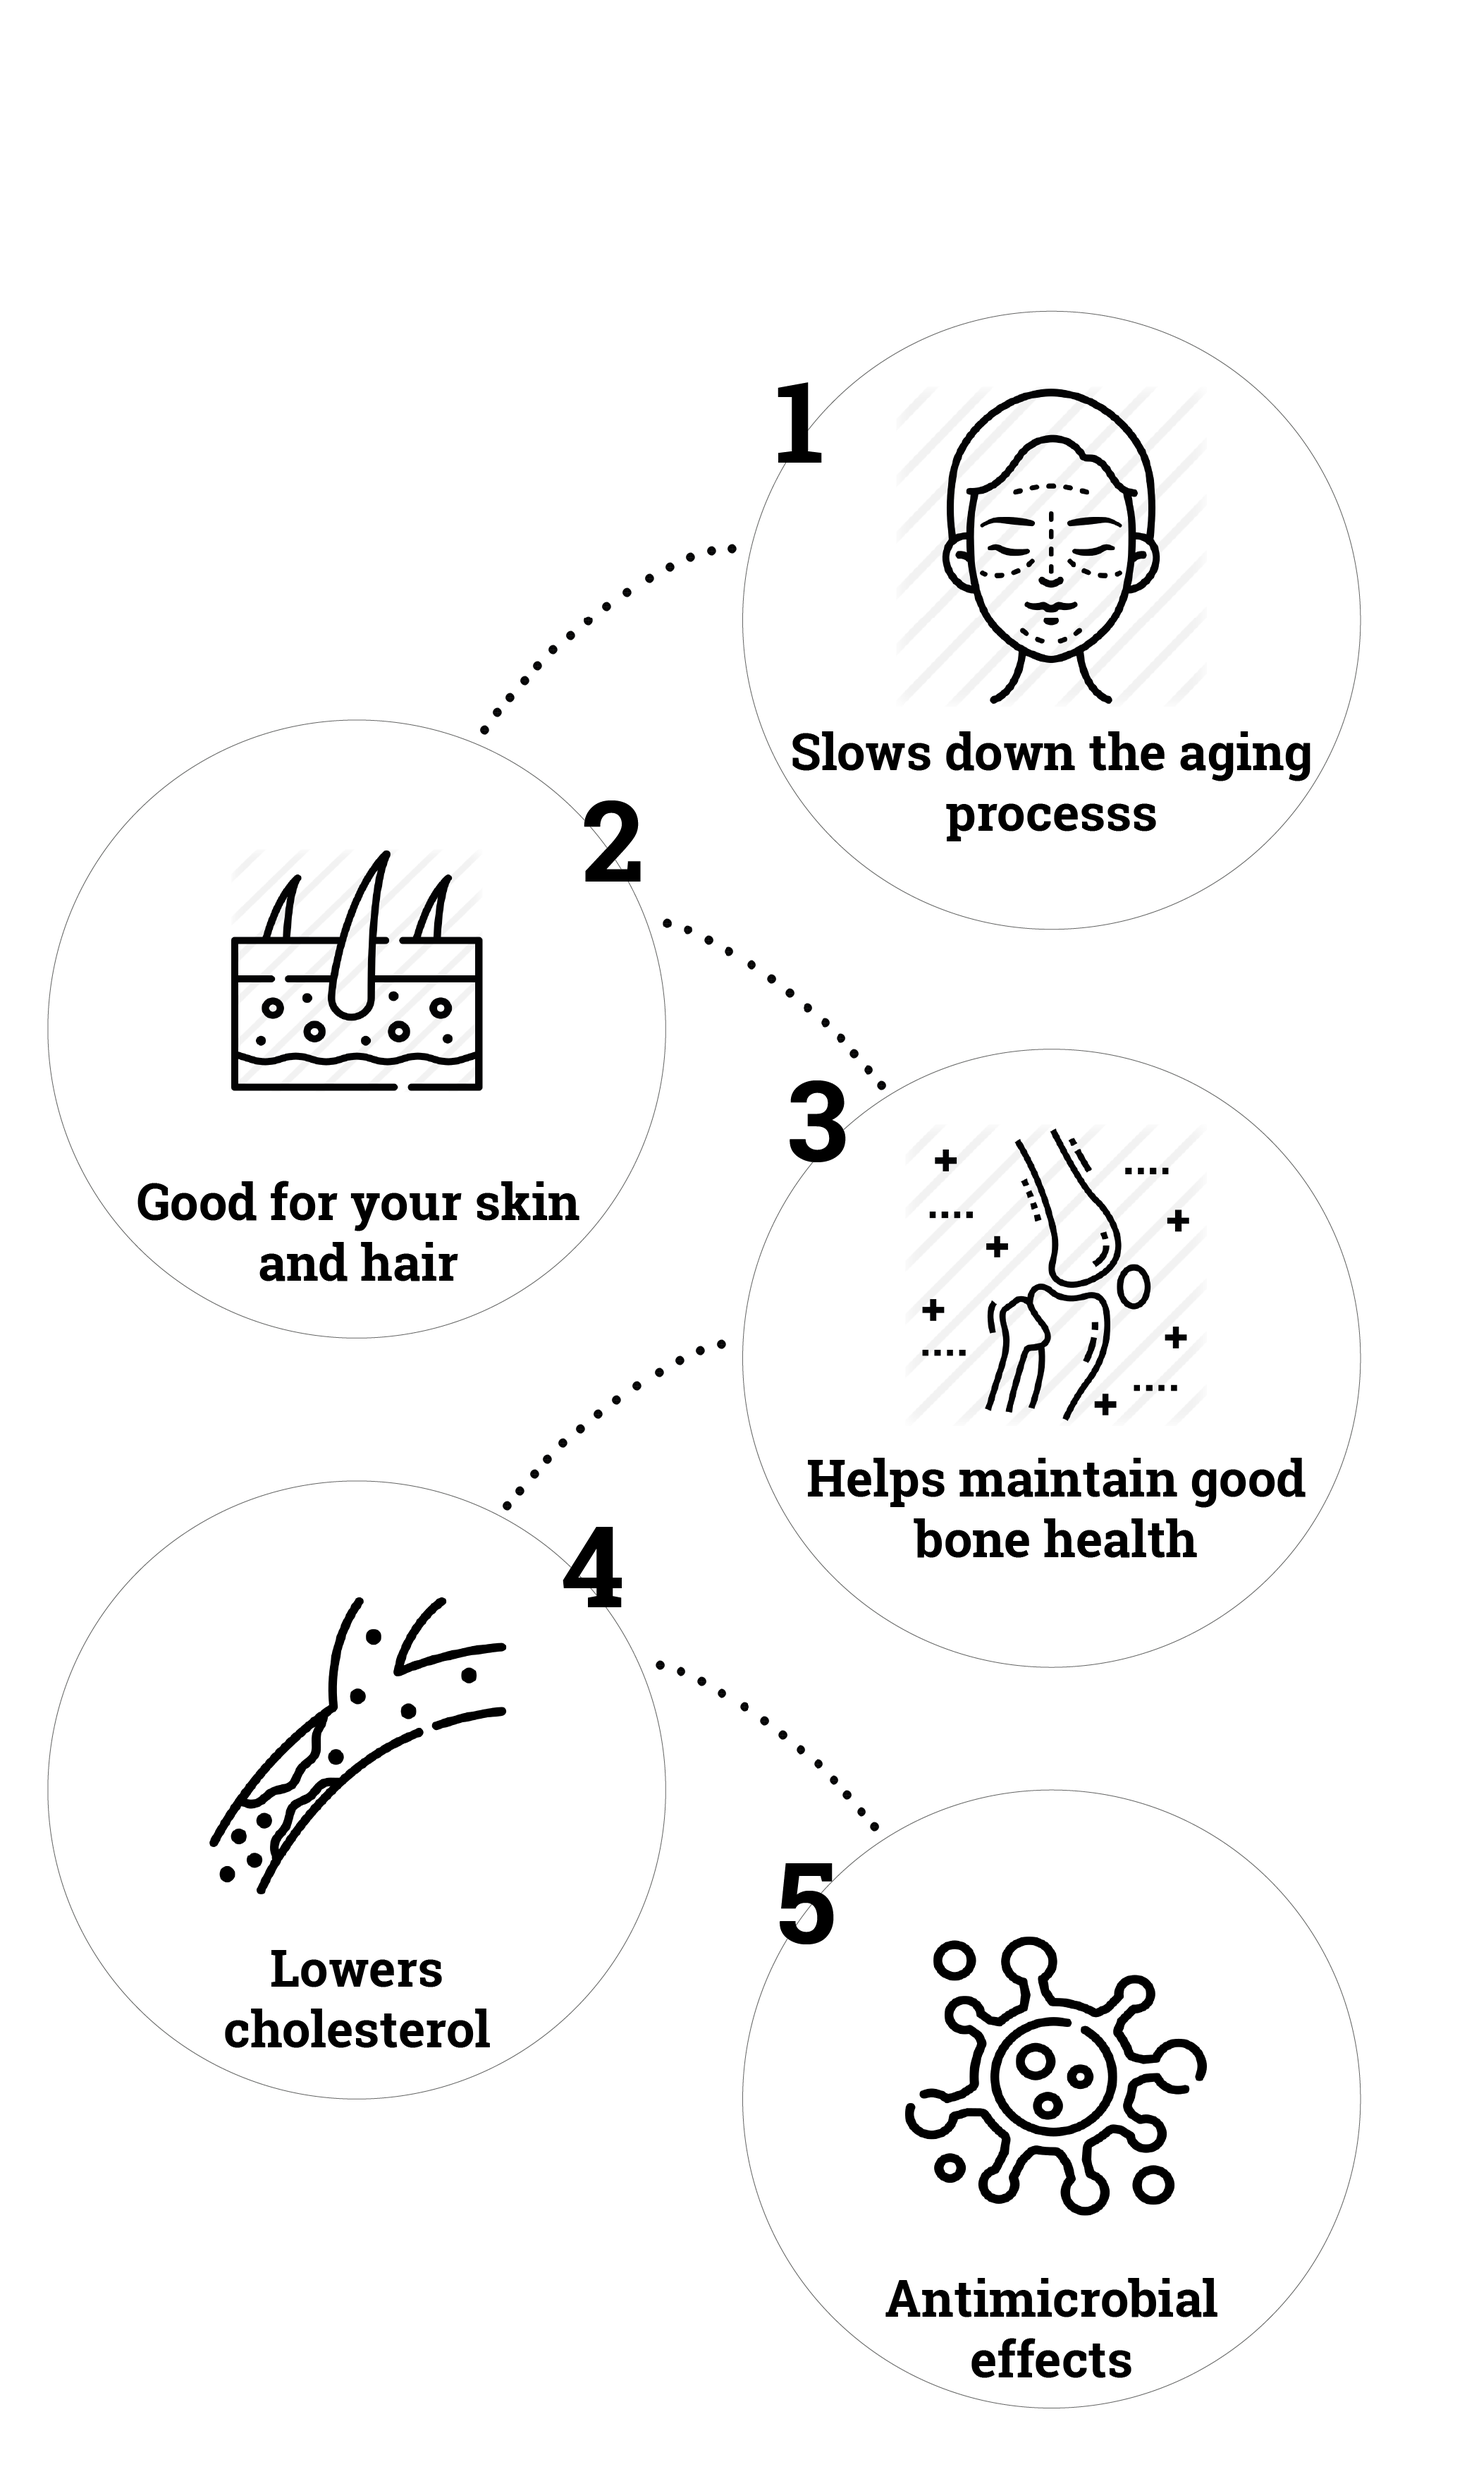
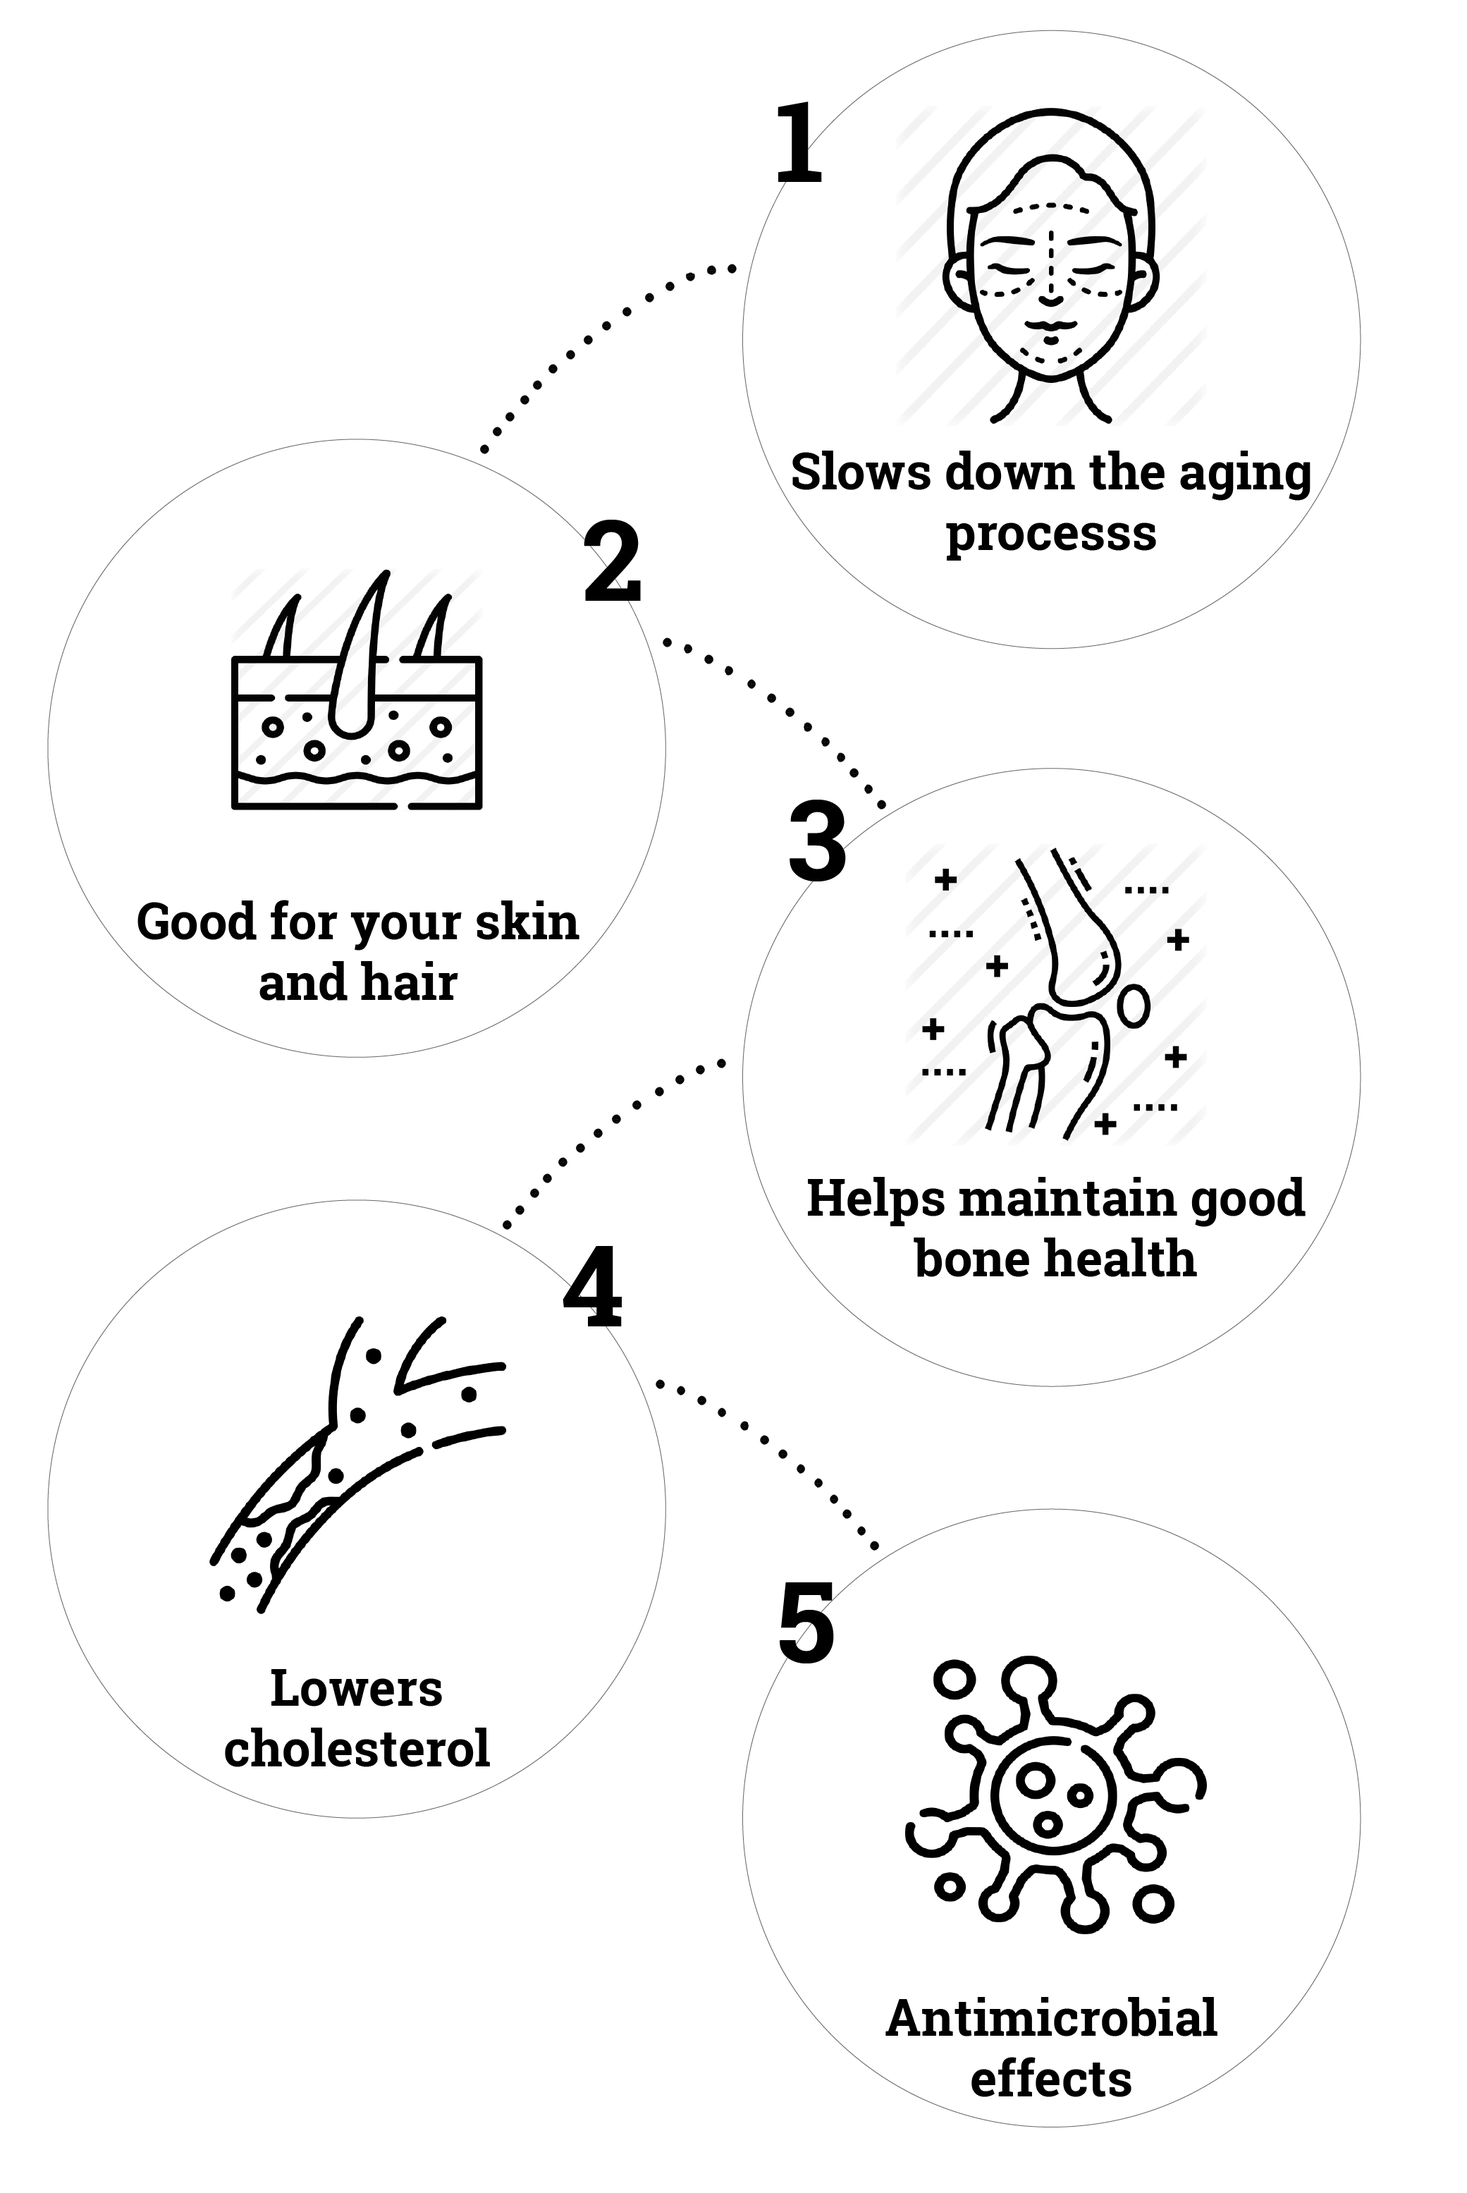
f

diff --git a/index.html b/index.html
@@ -155,150 +155,146 @@
                 </div>
             </div>
             <div class="row align-items-lg-center>">
-<<<<<<< HEAD
                 <div class="col-12 col-md-12 infographics text-center" data-aos="flip-left" data-aos-easing="ease-out-cubic" data-aos-duration="2000">
-                    <img class="img-fluid" src="img/infografik.png" alt="">
-=======
-                <div class="col-12 col-md-12 infographics text-center" data-aos="flip-left"
-                    data-aos-easing="ease-out-cubic" data-aos-duration="2000">
-                    <h1 style="font-size: 1.4rem;">Health benefits</h1>
-                    <h2>Did you know that bamboo</h2>
-                    <hr>
-                    <img class="img-fluid" src="img/90527623_773661883041134_6463179942229180416_n.png" alt="">
->>>>>>> origin/master
+                    <div class="col-12 col-md-12 infographics text-center" data-aos="flip-left" data-aos-easing="ease-out-cubic" data-aos-duration="2000">
+                        <h1 style="font-size: 1.4rem;">Health benefits</h1>
+                        <h2>Did you know that bamboo</h2>
+                        <hr>
+                        <img class="img-fluid" src="img/infografik.png" alt="">
+
+                    </div>
                 </div>
             </div>
         </div>
-    </div>
-    <!--  End Product Section -->
+        <!--  End Product Section -->
 
-    <!-- Start About Section -->
-    <div class="container-fluid" style="padding: 100px 11% 100px 11%;">
-        <div class="row">
-            <div class="col-12 order-md-1 col-md-6 col-xl-6 col-xxl-6 align-self-center" style="padding-left: 0%; opacity: 60%;">
-                <img class="d-block w-100" src="img/Logo-insta.png" alt="">
-            </div>
-            <div class="col-12 order-md-2 col-md-6 col-xl-6 col-xxl-6 align-self-center">
-                <div class="row_2">
-                    <h2>ABOUT</h2>
-                    <hr>
-                    <p>Bamboo has many years of experience with
-                        bamboo. We have with help
-                        and collaboration with
-                        researchers, come up with the purest drinks with clean, healthy ingredients. Lorem ipsum
-                        dolor
-                        sit amet, consectetur adipisicing elit. Voluptatibus sit dolorem ipsum fugiat ipsa a vitae
-                        atque
-                        eius, debitis consectetur, ea sunt voluptas officia nostrum veniam? Sed autem harum cum.
-                    </p>
-                </div>
-                <div class="row text-center">
-                    <img class="d-block mx-auto" src="img/wray_lihn.png" alt="">
-                </div>
-            </div>
-        </div>
-    </div>
-    <!--   End About Section -->
-
-    <!--  Start Fixed Background -->
-    <div id="resources" class="offset">
-        <div class="fixed-background">
+        <!-- Start About Section -->
+        <div class="container-fluid" style="padding: 100px 11% 100px 11%;">
             <div class="row">
-                <div class="col-12">
-                    <h1>Our Goal</h1>
-                    <h2>Good health & well being</h2>
-                    <div class="heading-underline"></div>
+                <div class="col-12 order-md-1 col-md-6 col-xl-6 col-xxl-6 align-self-center" style="padding-left: 0%; opacity: 60%;">
+                    <img class="d-block w-100" src="img/Logo-insta.png" alt="">
                 </div>
-                <div class="col-md-4">
-                    <h2>Lorem Ipsum</h2>
-                    <p>Lorem ipsum, dolor sit amet consectetur adipisicing elit. Deserunt a assumenda ipsum
-                        similique
-                        odio itaque, quam quae neque id enim porro saepe cum commodi qui sapiente repellendus, rerum
-                        excepturi sint!
-                    </p>
-                </div>
-                <div class="col-md-4">
-                    <h2>Lorem Ipsum</h2>
-                    <p>Lorem ipsum, dolor sit amet consectetur adipisicing elit. Deserunt a assumenda ipsum
-                        similique
-                        odio itaque, quam quae neque id enim porro saepe cum commodi qui sapiente repellendus, rerum
-                        excepturi sint!
-                    </p>
-                </div>
-                <div class="col-md-4">
-                    <h2>Lorem Ipsum</h2>
-                    <p>Lorem ipsum, dolor sit amet consectetur adipisicing elit. Deserunt a assumenda ipsum
-                        similique
-                        odio itaque, quam quae neque id enim porro saepe cum commodi qui sapiente repellendus, rerum
-                        excepturi sint!
-                    </p>
-                </div>
-                <div class="fixed-wrap">
-                    <div class="fixed"></div>
+                <div class="col-12 order-md-2 col-md-6 col-xl-6 col-xxl-6 align-self-center">
+                    <div class="row_2">
+                        <h2>ABOUT</h2>
+                        <hr>
+                        <p>Bamboo has many years of experience with
+                            bamboo. We have with help
+                            and collaboration with
+                            researchers, come up with the purest drinks with clean, healthy ingredients. Lorem ipsum
+                            dolor
+                            sit amet, consectetur adipisicing elit. Voluptatibus sit dolorem ipsum fugiat ipsa a vitae
+                            atque
+                            eius, debitis consectetur, ea sunt voluptas officia nostrum veniam? Sed autem harum cum.
+                        </p>
+                    </div>
+                    <div class="row text-center">
+                        <img class="d-block mx-auto" src="img/wray_lihn.png" alt="">
+                    </div>
                 </div>
             </div>
         </div>
-    </div>
-    <!-- End Fixed Background -->
+        <!--   End About Section -->
 
-    <!-- Start Instagram Feed -->
-    <div class="container">
-        <div class="row">
-            <section id="my-instagram-feed" class="instagram-feed">
-
-            </section>
+        <!--  Start Fixed Background -->
+        <div id="resources" class="offset">
+            <div class="fixed-background">
+                <div class="row">
+                    <div class="col-12">
+                        <h1>Our Goal</h1>
+                        <h2>Good health & well being</h2>
+                        <div class="heading-underline"></div>
+                    </div>
+                    <div class="col-md-4">
+                        <h2>Lorem Ipsum</h2>
+                        <p>Lorem ipsum, dolor sit amet consectetur adipisicing elit. Deserunt a assumenda ipsum
+                            similique
+                            odio itaque, quam quae neque id enim porro saepe cum commodi qui sapiente repellendus, rerum
+                            excepturi sint!
+                        </p>
+                    </div>
+                    <div class="col-md-4">
+                        <h2>Lorem Ipsum</h2>
+                        <p>Lorem ipsum, dolor sit amet consectetur adipisicing elit. Deserunt a assumenda ipsum
+                            similique
+                            odio itaque, quam quae neque id enim porro saepe cum commodi qui sapiente repellendus, rerum
+                            excepturi sint!
+                        </p>
+                    </div>
+                    <div class="col-md-4">
+                        <h2>Lorem Ipsum</h2>
+                        <p>Lorem ipsum, dolor sit amet consectetur adipisicing elit. Deserunt a assumenda ipsum
+                            similique
+                            odio itaque, quam quae neque id enim porro saepe cum commodi qui sapiente repellendus, rerum
+                            excepturi sint!
+                        </p>
+                    </div>
+                    <div class="fixed-wrap">
+                        <div class="fixed"></div>
+                    </div>
+                </div>
+            </div>
         </div>
-    </div>
-    <!--  End Instagram Feed -->
+        <!-- End Fixed Background -->
 
-    <!-- Start Footer-->
-    <div class="footer" id="footer">
+        <!-- Start Instagram Feed -->
         <div class="container">
-            <div class="row text-center text-white">
-                <div class="col-12 col-md-4 mb-4 mb-md-0" data-aos="fade-right">
-                    <div class="shop-info">
-                        <i class="far fa-clock mb-3"></i>
-                        <h1 class="mb-4">Opening Hours</h1>
-                        <p>Mon to Fri: 8:00 am - 6:00pm</p>
-                        <p>Sat to Sun: 8:00 am - 1:00pm</p>
-                    </div>
-                </div>
-                <div class="col-12 col-md-4 mb-4 mb-md-0" data-aos="fade-up">
-                    <div class="shop-info">
-                        <i class="fas fa-map-marked-alt mb-3"></i>
-                        <h1 class="mb-4">Our location</h1>
-                        <address>
-                            Uplandsgade 23 <br> 2300 KBH S
-                        </address>
-                    </div>
-                </div>
-                <div class="col-12 col-md-4 mb-4 mb-md-0" data-aos="fade-left">
-                    <div class="shop-info">
-                        <i class="fas fa-mobile-alt mb-3"></i>
-                        <h1 class="mb-4">Get in touch</h1>
-                        <p>Phone #: (+45) 2888-6488 </p>
-                        <p>Email: info@mybamboo.com</p>
-                    </div>
-                </div>
-            </div>
-            <hr class="mt-5">
-        </div>
-        <div class="text-center py-5" style="color: rgba(225, 225, 225, 0.5);">
-            &copy; Copyright 2020 - All Rights Reserved &#10072; Designed by Fiona & Nitiya
-        </div>
-    </div>
-    <!--  End Footer  -->
+            <div class="row">
+                <section id="my-instagram-feed" class="instagram-feed">
 
-    <!-- Start Script -->
-    <script src="https://ajax.googleapis.com/ajax/libs/jquery/3.4.1/jquery.min.js" integrity="sha384-vk5WoKIaW/vJyUAd9n/wmopsmNhiy+L2Z+SBxGYnUkunIxVxAv/UtMOhba/xskxh" crossorigin="anonymous">
-    </script>
-    <script src="https://cdn.jsdelivr.net/npm/popper.js@1.16.0/dist/umd/popper.min.js" integrity="sha384-Q6E9RHvbIyZFJoft+2mJbHaEWldlvI9IOYy5n3zV9zzTtmI3UksdQRVvoxMfooAo" crossorigin="anonymous">
-    </script>
-    <script src="https://stackpath.bootstrapcdn.com/bootstrap/4.4.1/js/bootstrap.min.js" integrity="sha384-wfSDF2E50Y2D1uUdj0O3uMBJnjuUD4Ih7YwaYd1iqfktj0Uod8GCExl3Og8ifwB6" crossorigin="anonymous">
-    </script>
-    <script src="https://cdnjs.cloudflare.com/ajax/libs/jquery/3.4.1/jquery.min.js"></script>
-    <script src="https://unpkg.com/aos@next/dist/aos.js"></script>
-    <script src="jquery.instagramFeed.js"></script>
-    <script src="script.js"></script>
-    <!-- End Script  -->
+                </section>
+            </div>
+        </div>
+        <!--  End Instagram Feed -->
+
+        <!-- Start Footer-->
+        <div class="footer" id="footer">
+            <div class="container">
+                <div class="row text-center text-white">
+                    <div class="col-12 col-md-4 mb-4 mb-md-0" data-aos="fade-right">
+                        <div class="shop-info">
+                            <i class="far fa-clock mb-3"></i>
+                            <h1 class="mb-4">Opening Hours</h1>
+                            <p>Mon to Fri: 8:00 am - 6:00pm</p>
+                            <p>Sat to Sun: 8:00 am - 1:00pm</p>
+                        </div>
+                    </div>
+                    <div class="col-12 col-md-4 mb-4 mb-md-0" data-aos="fade-up">
+                        <div class="shop-info">
+                            <i class="fas fa-map-marked-alt mb-3"></i>
+                            <h1 class="mb-4">Our location</h1>
+                            <address>
+                                Uplandsgade 23 <br> 2300 KBH S
+                            </address>
+                        </div>
+                    </div>
+                    <div class="col-12 col-md-4 mb-4 mb-md-0" data-aos="fade-left">
+                        <div class="shop-info">
+                            <i class="fas fa-mobile-alt mb-3"></i>
+                            <h1 class="mb-4">Get in touch</h1>
+                            <p>Phone #: (+45) 2888-6488 </p>
+                            <p>Email: info@mybamboo.com</p>
+                        </div>
+                    </div>
+                </div>
+                <hr class="mt-5">
+            </div>
+            <div class="text-center py-5" style="color: rgba(225, 225, 225, 0.5);">
+                &copy; Copyright 2020 - All Rights Reserved &#10072; Designed by Fiona & Nitiya
+            </div>
+        </div>
+        <!--  End Footer  -->
+
+        <!-- Start Script -->
+        <script src="https://ajax.googleapis.com/ajax/libs/jquery/3.4.1/jquery.min.js" integrity="sha384-vk5WoKIaW/vJyUAd9n/wmopsmNhiy+L2Z+SBxGYnUkunIxVxAv/UtMOhba/xskxh" crossorigin="anonymous">
+        </script>
+        <script src="https://cdn.jsdelivr.net/npm/popper.js@1.16.0/dist/umd/popper.min.js" integrity="sha384-Q6E9RHvbIyZFJoft+2mJbHaEWldlvI9IOYy5n3zV9zzTtmI3UksdQRVvoxMfooAo" crossorigin="anonymous">
+        </script>
+        <script src="https://stackpath.bootstrapcdn.com/bootstrap/4.4.1/js/bootstrap.min.js" integrity="sha384-wfSDF2E50Y2D1uUdj0O3uMBJnjuUD4Ih7YwaYd1iqfktj0Uod8GCExl3Og8ifwB6" crossorigin="anonymous">
+        </script>
+        <script src="https://cdnjs.cloudflare.com/ajax/libs/jquery/3.4.1/jquery.min.js"></script>
+        <script src="https://unpkg.com/aos@next/dist/aos.js"></script>
+        <script src="jquery.instagramFeed.js"></script>
+        <script src="script.js"></script>
+        <!-- End Script  -->
 </body></html>
